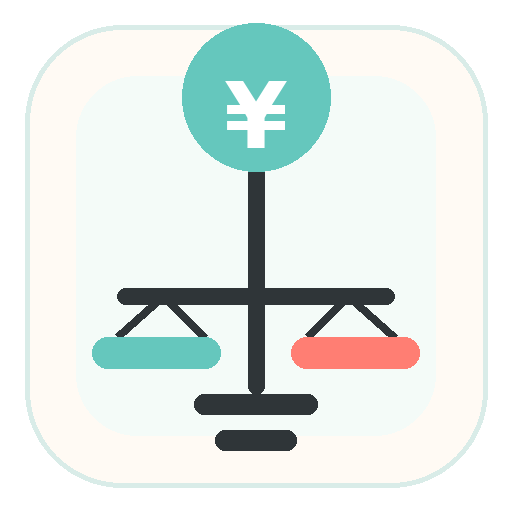
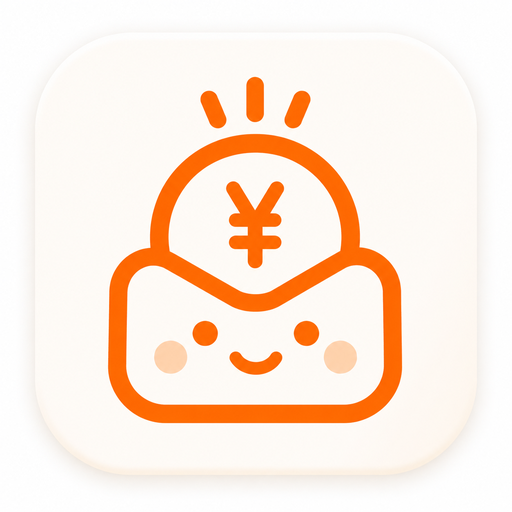
Add files via upload

diff --git a/index.html b/index.html
@@ -6,8 +6,8 @@
   <title>Hanemy｜今月を安心して過ごすためのお金の作戦ボード</title>
   <meta name="description" content="Hanemy（ハネミー）は、家計簿ではなく、今月を安心して過ごすためのお金の作戦ボードです。">
   <meta name="theme-color" content="#fff7ec">
-  <link rel="icon" href="./favicon.png">
-  <link rel="apple-touch-icon" href="./icon-192.png">
+  <link rel="icon" href="./favicon.png?v=062">
+  <link rel="apple-touch-icon" href="./icon-192.png?v=062">
   <style>
     :root{
       --bg:#fff7ec;

diff --git a/README.md b/README.md
@@ -1,4 +1,4 @@
-# Hanemy Light Homepage v0.6.1
+# Hanemy Light Homepage v0.6.2
 
 Hanemy（ハネミー）の公開β向け軽量ホームページです。
 
@@ -46,3 +46,10 @@ https://figiecc.github.io/hanemy/
 
 - ロゴ画像の背景に見えていたチェック柄を除去
 - ホームページで使うロゴ・アイコン・マスコット画像を差し替え
+
+
+## v0.6.2 favicon hotfix
+
+- ブラウザタブに表示される `favicon.png` を新ブランドアイコンへ差し替え
+- `icon-192.png` / `icon-512.png` も新ブランドアイコンへ差し替え
+- favicon参照にキャッシュ対策のクエリを追加